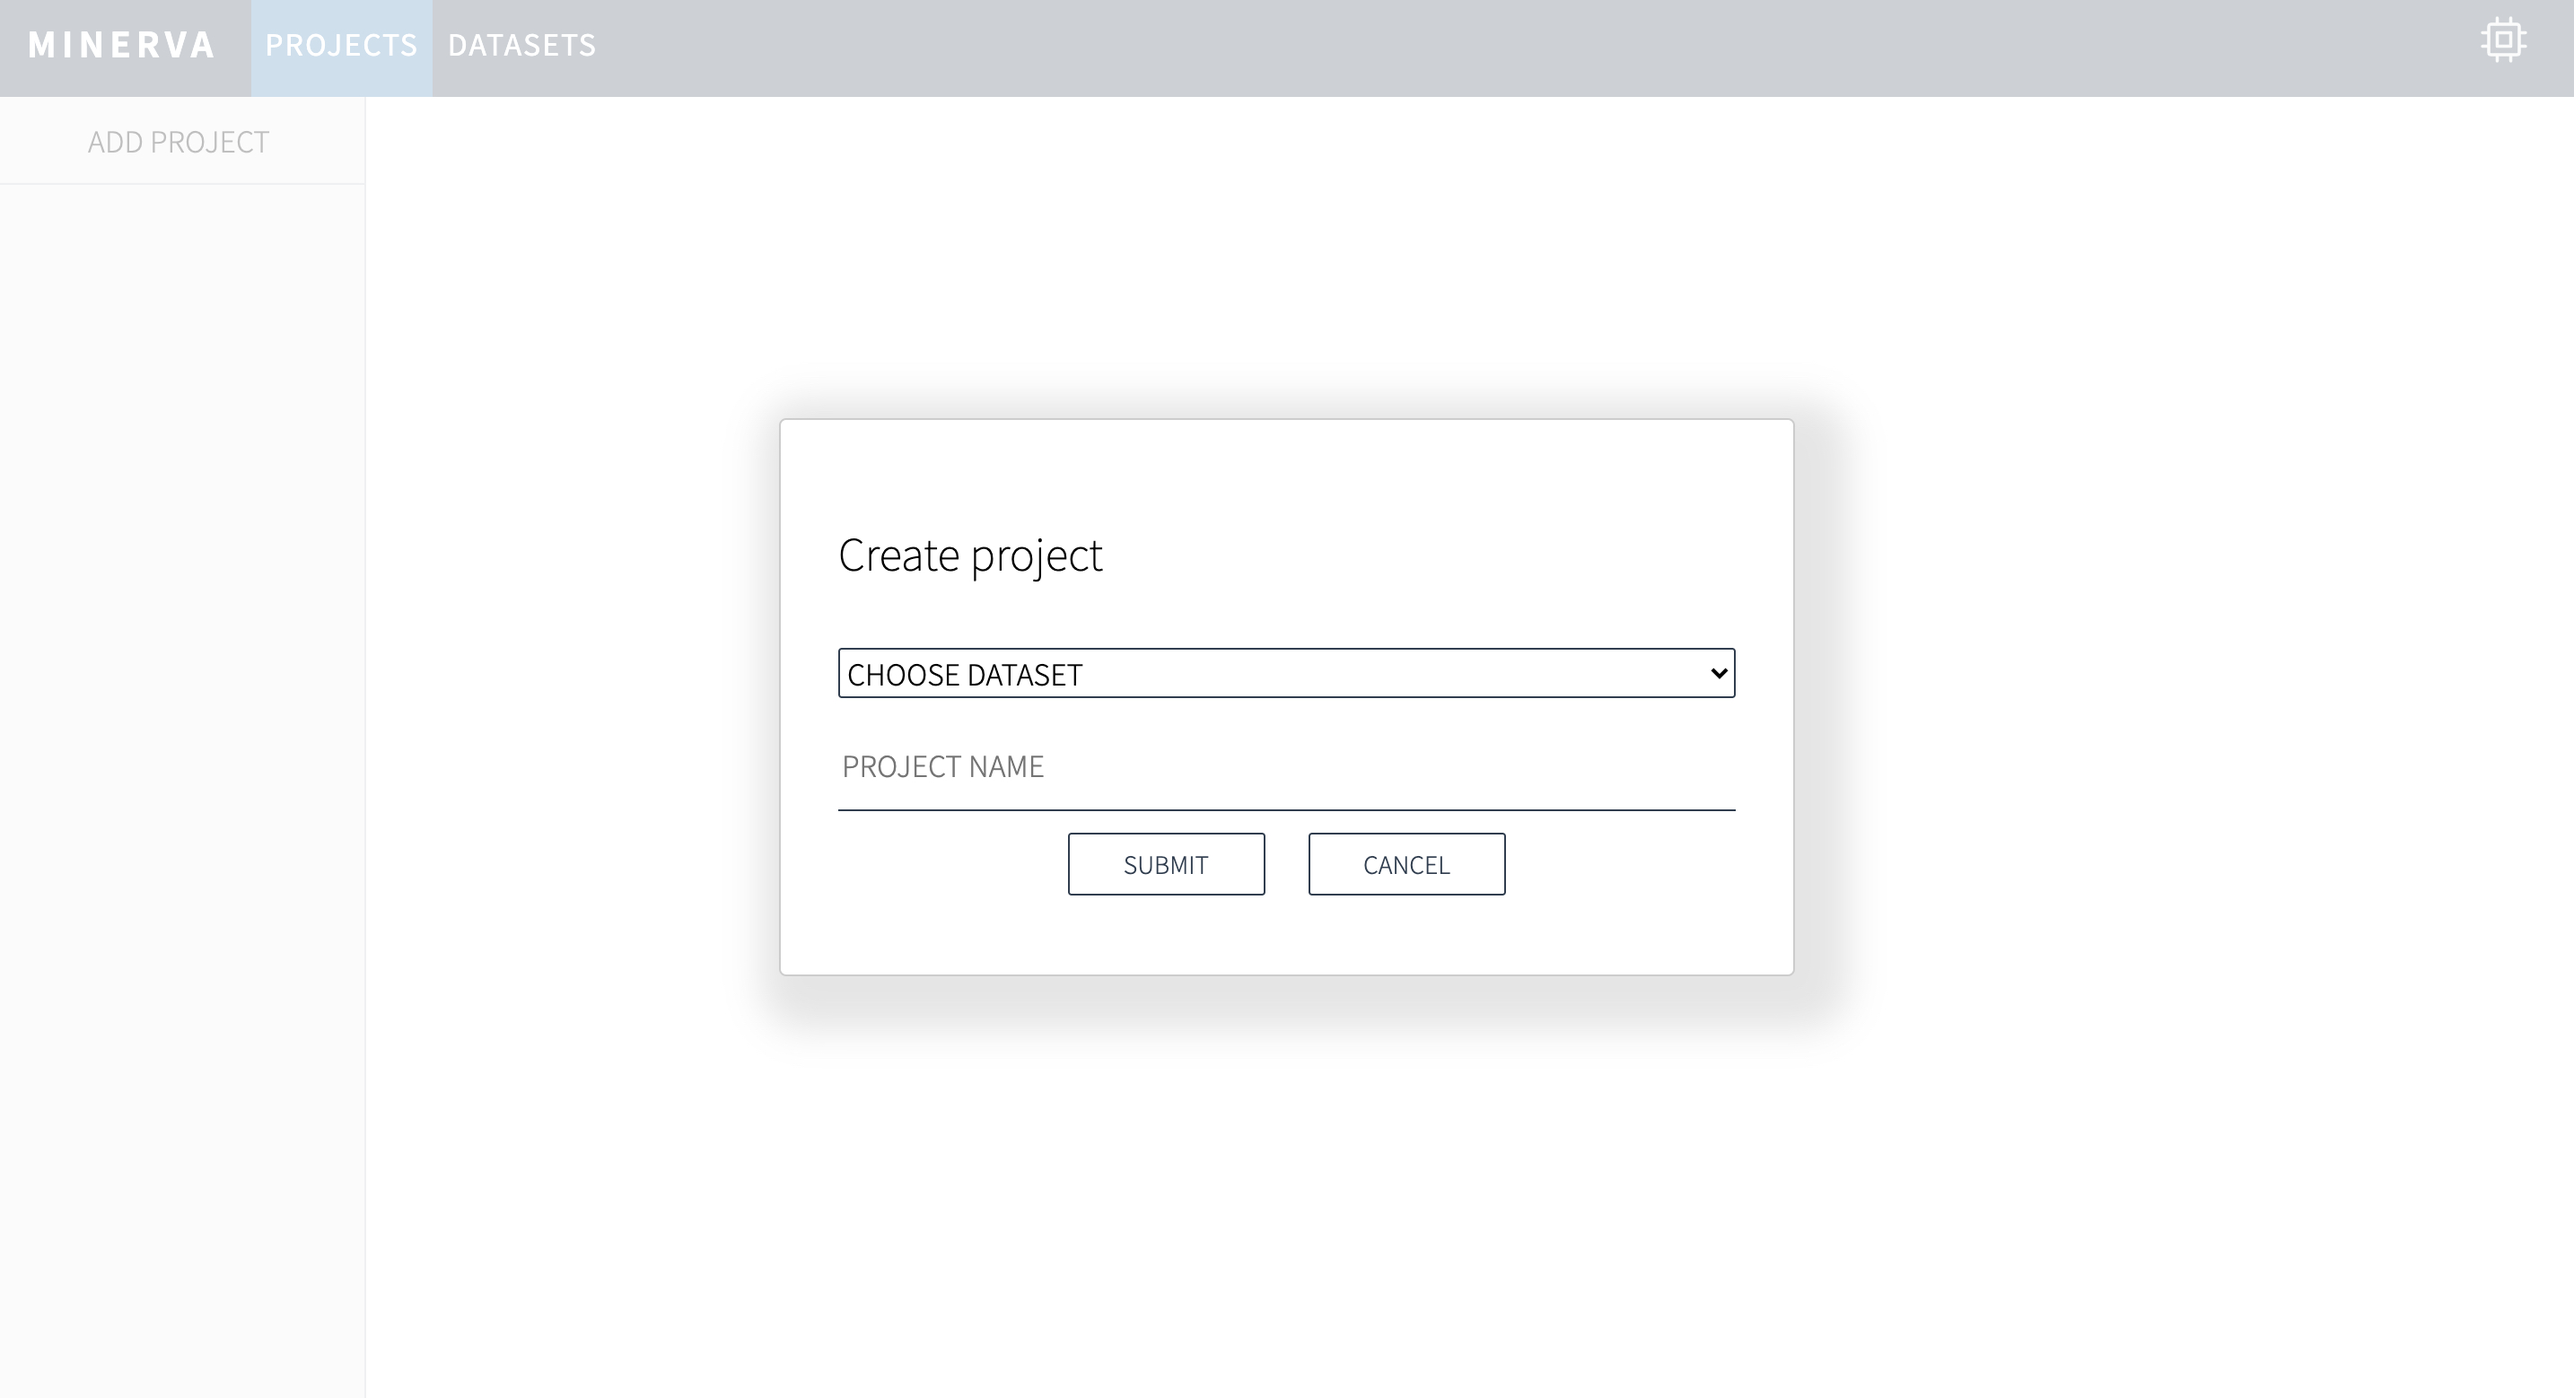
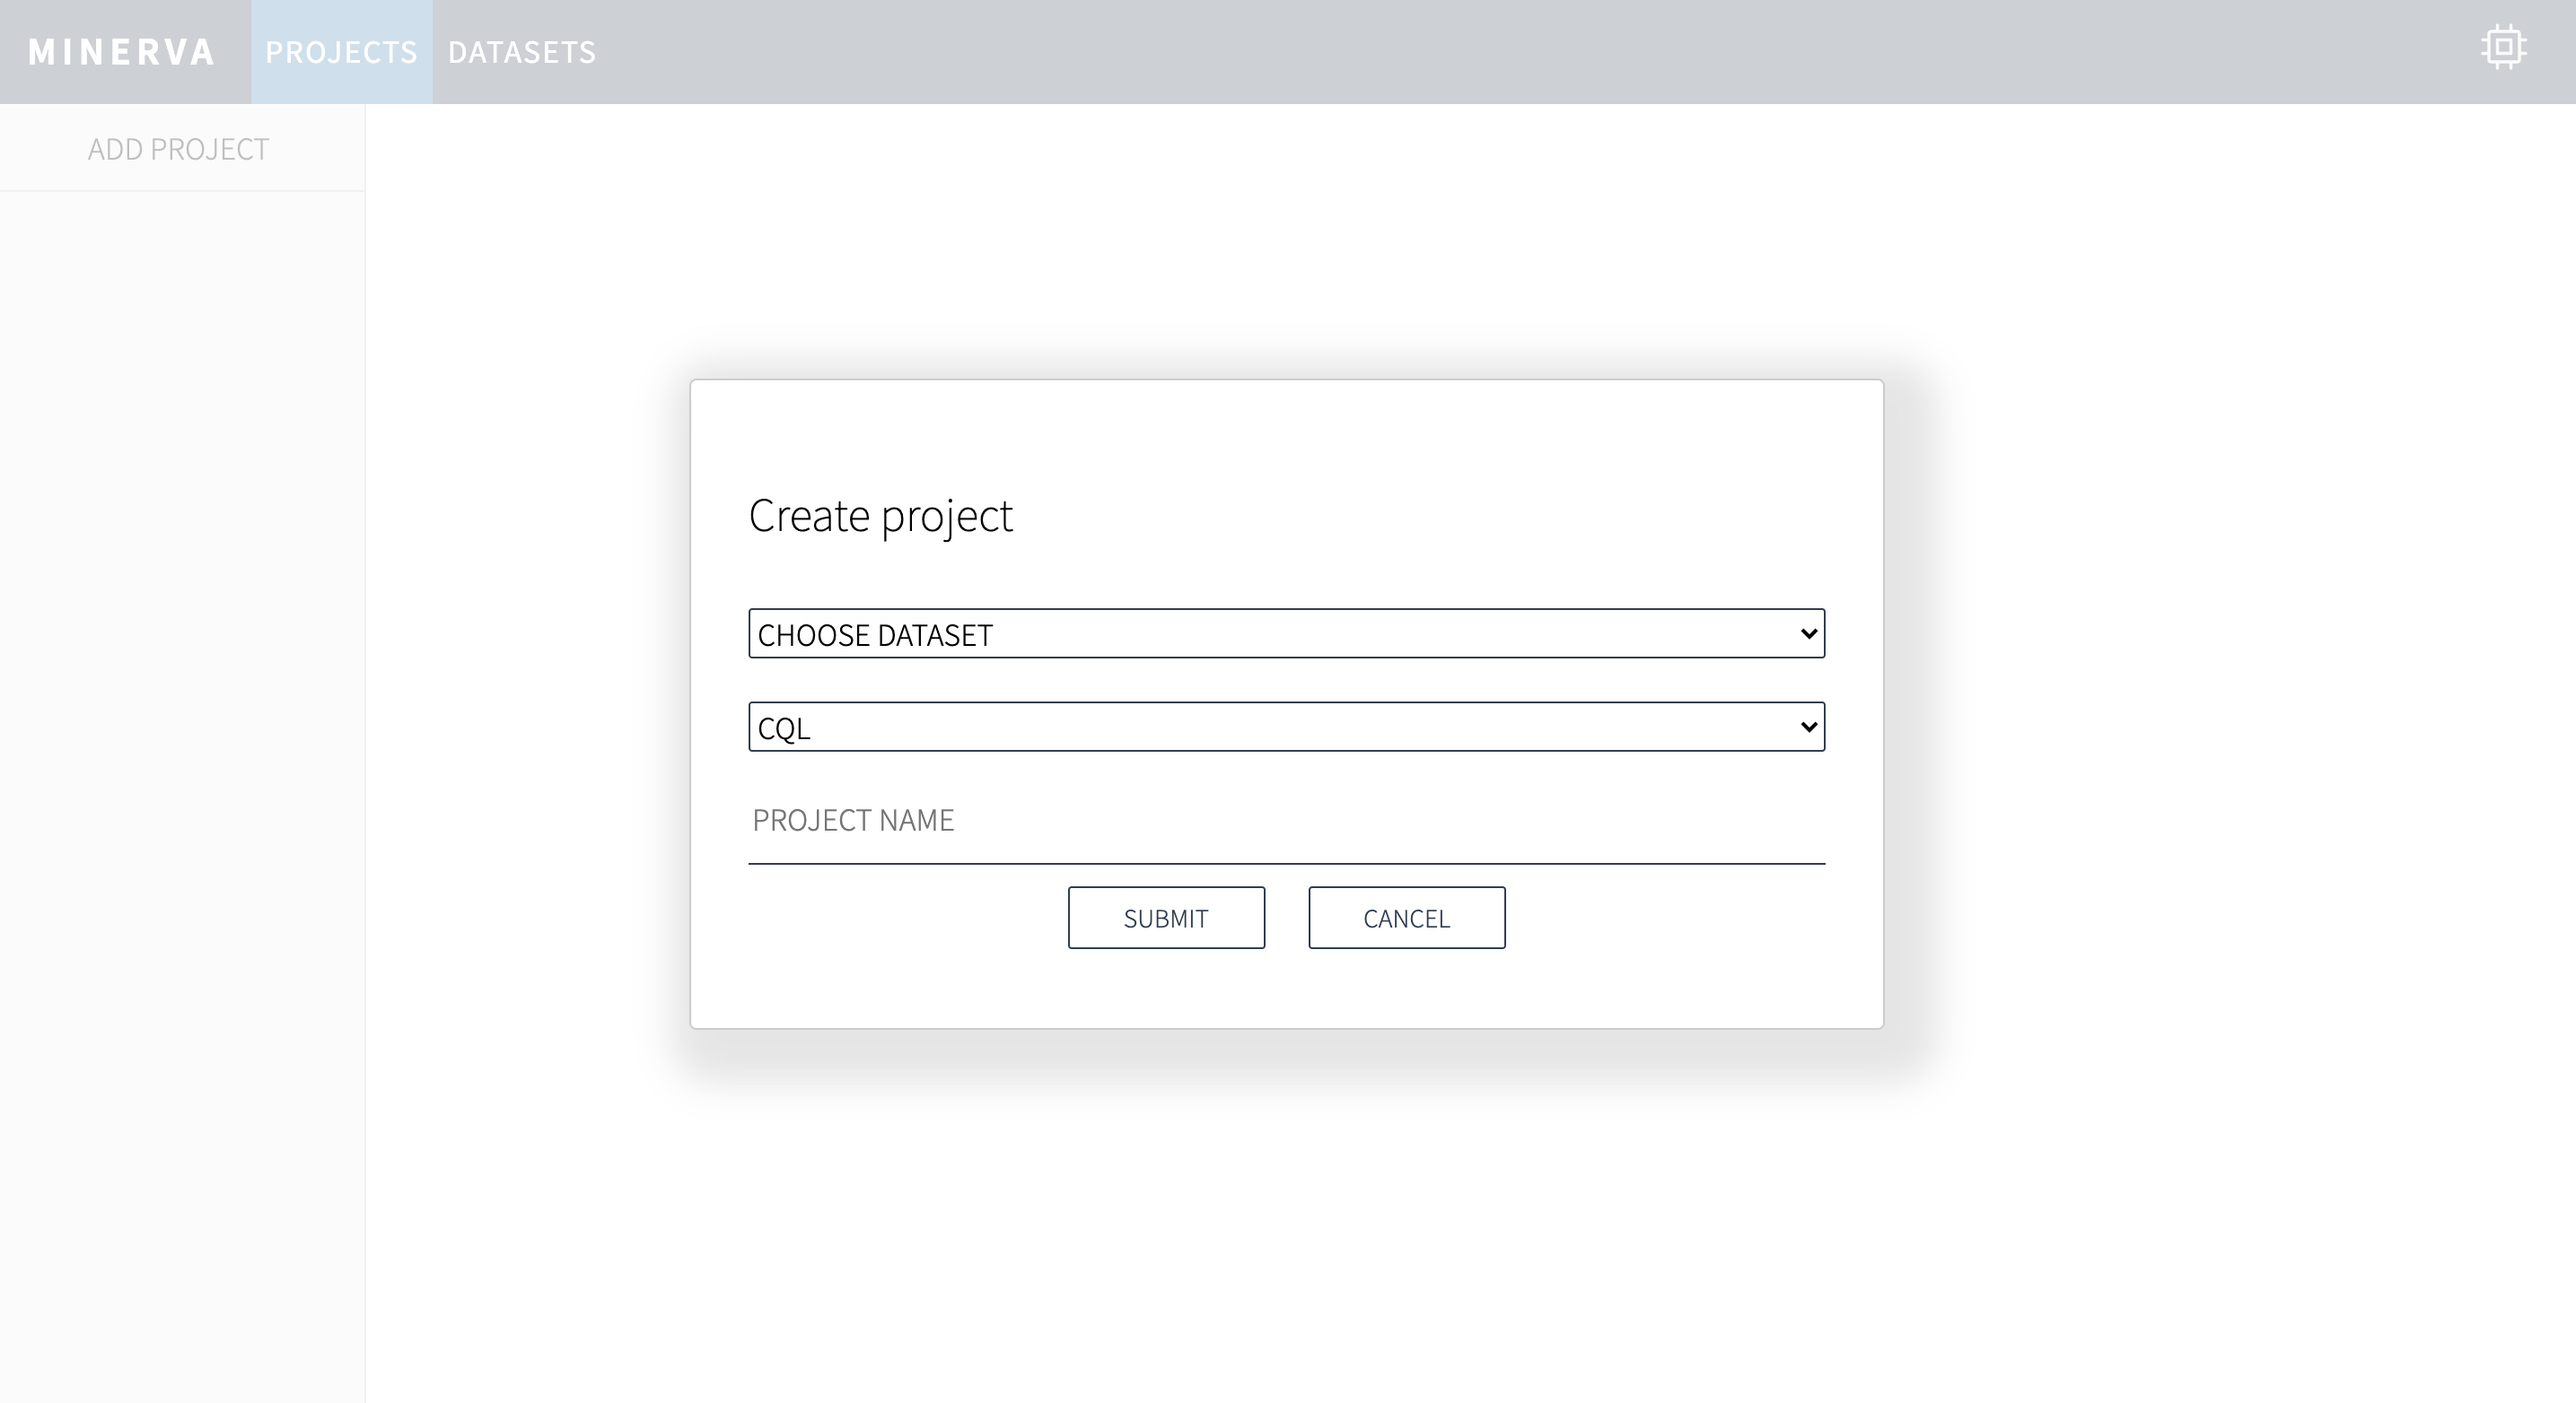
Update document for algorithm selection

diff --git a/docs/installation.rst b/docs/installation.rst
@@ -13,7 +13,7 @@ However, you can possibly run MINERVA on Windows as long as PyTorch runs since
 it's the core dependency.
 
 Browser
-~~~~~~
+~~~~~~~
 
 For now, MINERVA is only tested with Chrome. There would be incompatibilities
 with other browsers (I've confirmed some glitches on Safari).

diff --git a/docs/getting_started.rst b/docs/getting_started.rst
@@ -136,6 +136,7 @@ To create a new project, click ``ADD PROJECT`` in the project page.
 Then,
 
 1. Choose a dataset from the uploaded ones.
+1. Choose an algorithm to learn.
 2. Fill the project name.
 3. Click ``SUBMIT`` button to create.
 
